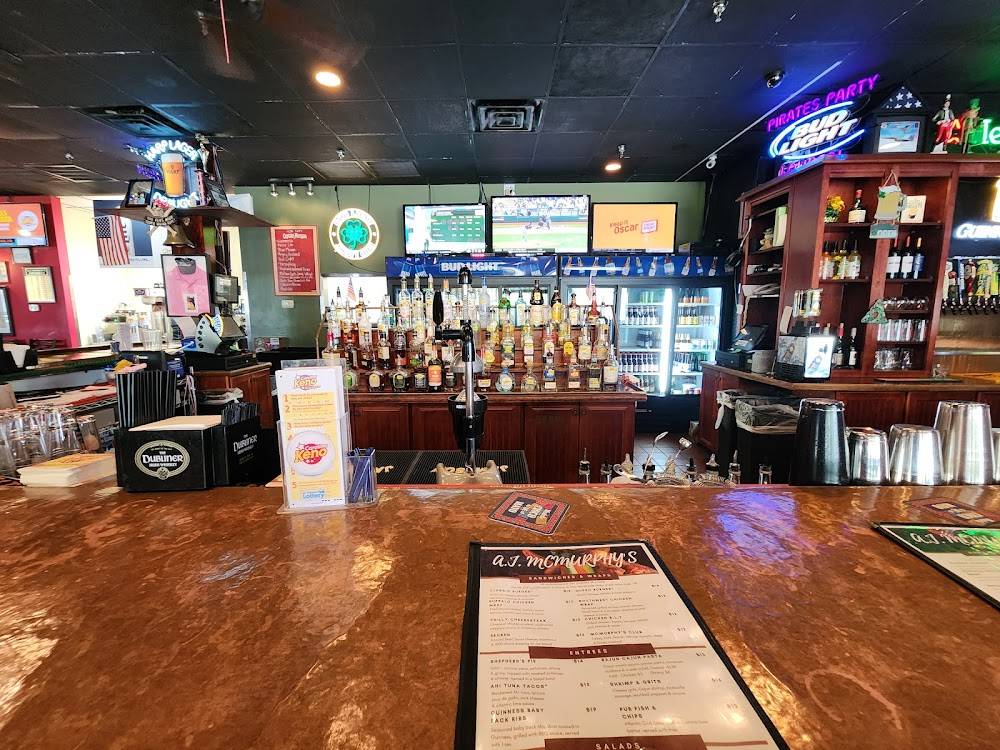
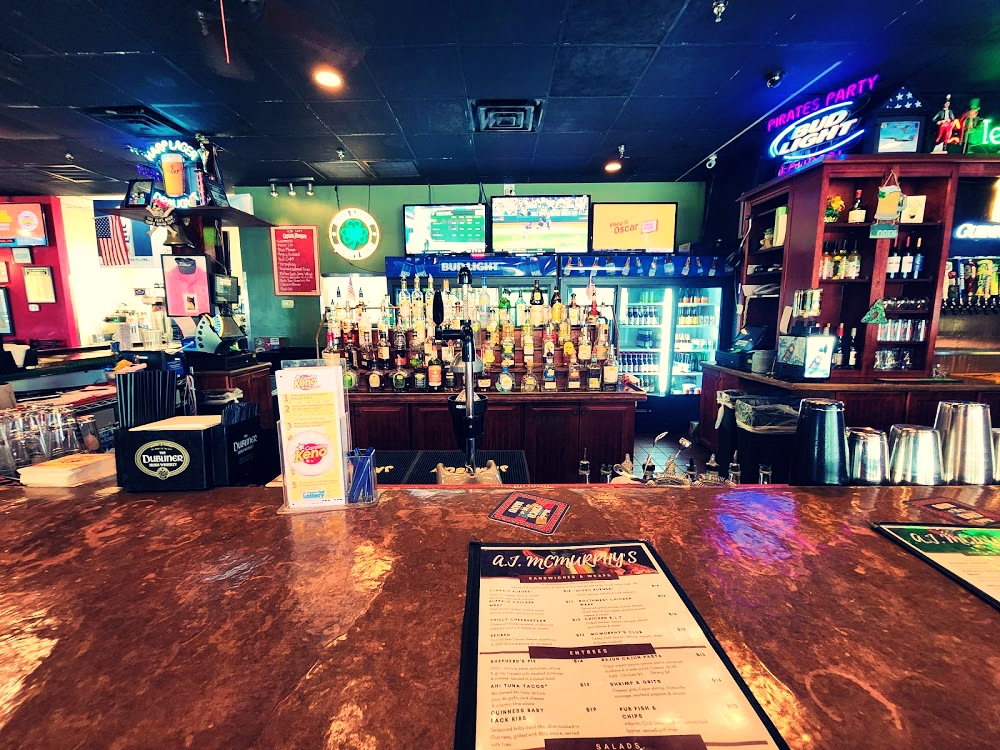
Add files via upload

diff --git a/index.html b/index.html
@@ -18,44 +18,98 @@ body {
     color: #111;
 }
 
-/* HEADER */
+/* HEADER - SOLID PREMIUM */
 .header {
     display: flex;
     justify-content: space-between;
     align-items: center;
-    padding: 15px 30px;
-    background: white;
-    border-bottom: 1px solid #ddd;
+    padding: 22px 40px;
+    background: #ffffff;
+    border-bottom: 1px solid rgba(0,0,0,0.06);
     position: sticky;
     top: 0;
     z-index: 100;
+    transition: all 0.35s ease;
 }
 
-.logo { height: 50px; }
+/* Shrink on scroll */
+.header.scrolled {
+    padding: 10px 40px;
+    background: #ffffff;
+    box-shadow: 0 8px 25px rgba(0,0,0,0.08);
+}
 
+/* Subtle divider */
+.header::after {
+    content: "";
+    position: absolute;
+    bottom: 0;
+    left: 40px;
+    right: 40px;
+    height: 1px;
+    background: rgba(0,0,0,0.06);
+}
+
+/* LOGO */
+.logo {
+    height: 90px;
+    width: auto;
+    transition: all 0.35s ease;
+}
+
+.header.scrolled .logo {
+    height: 55px;
+}
+
+/* RIGHT SIDE */
 .header-right {
     display: flex;
     align-items: center;
-    gap: 15px;
+    gap: 18px;
 }
 
+/* SOCIALS */
 .socials a {
-    color: #333;
-    margin: 0 5px;
-    font-size: 18px;
+    color: #444;
+    margin: 0 6px;
+    font-size: 16px;
+    transition: 0.2s;
 }
 
+.socials a:hover {
+    color: #2e7d32;
+    transform: translateY(-2px);
+}
+
+/* CTA */
 .cta {
-    background: #2e7d32;
+    background: linear-gradient(135deg, #2e7d32, #1b5e20);
     color: white;
-    padding: 10px 18px;
-    border-radius: 8px;
+    padding: 12px 22px;
+    border-radius: 999px;
     text-decoration: none;
     font-weight: 500;
+    letter-spacing: 0.5px;
+    box-shadow: 0 4px 14px rgba(46,125,50,0.3);
+    transition: all 0.25s ease;
+}
+
+.cta:hover {
+    transform: translateY(-2px);
+    box-shadow: 0 8px 22px rgba(46,125,50,0.4);
 }
 
 /* MENU */
-.menu-btn { font-size: 26px; cursor: pointer; }
+.menu-btn {
+    font-size: 24px;
+    cursor: pointer;
+    padding: 6px;
+    transition: 0.2s;
+}
+
+.menu-btn:hover {
+    transform: scale(1.1);
+}
 
 .sidemenu {
     position: fixed;
@@ -96,7 +150,7 @@ body {
     pointer-events: all;
 }
 
-/* HERO - UPDATED */
+/* HERO */
 .hero {
     min-height: calc(100vh - 80px);
     background: linear-gradient(rgba(0,0,0,0.35), rgba(0,0,0,0.65)),
@@ -183,7 +237,7 @@ footer {
 <div class="overlay" id="overlay" onclick="toggleMenu()"></div>
 
 <div class="header">
-    <img src="logo.png" class="logo">
+    <img src="logovv.jpg" class="logo">
 
     <div class="header-right">
         <div class="socials">
@@ -272,6 +326,16 @@ function toggleMenu() {
     document.getElementById("menu").classList.toggle("open");
     document.getElementById("overlay").classList.toggle("show");
 }
+
+window.addEventListener("scroll", function() {
+    const header = document.querySelector(".header");
+
+    if (window.scrollY > 50) {
+        header.classList.add("scrolled");
+    } else {
+        header.classList.remove("scrolled");
+    }
+});
 </script>
 
 </body>
